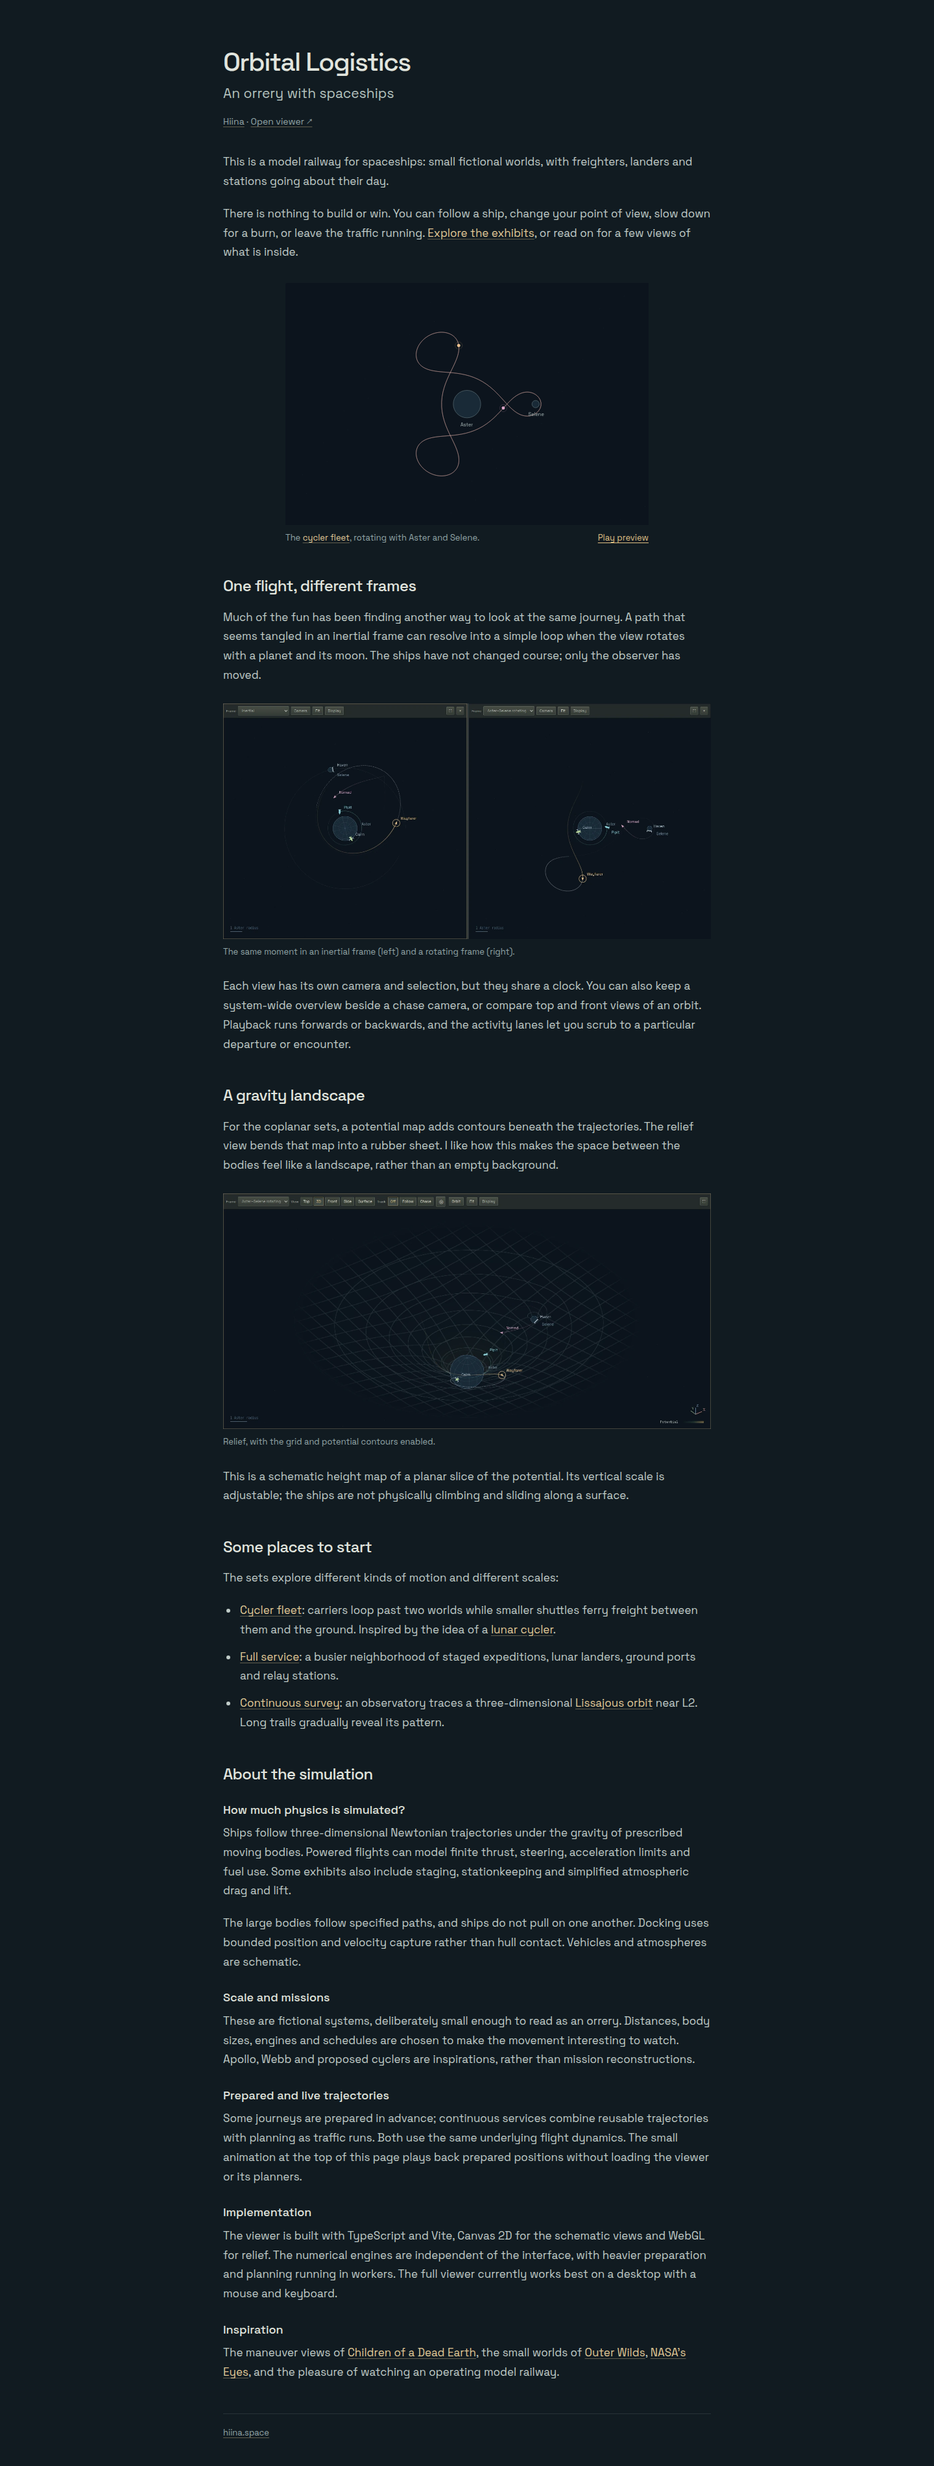
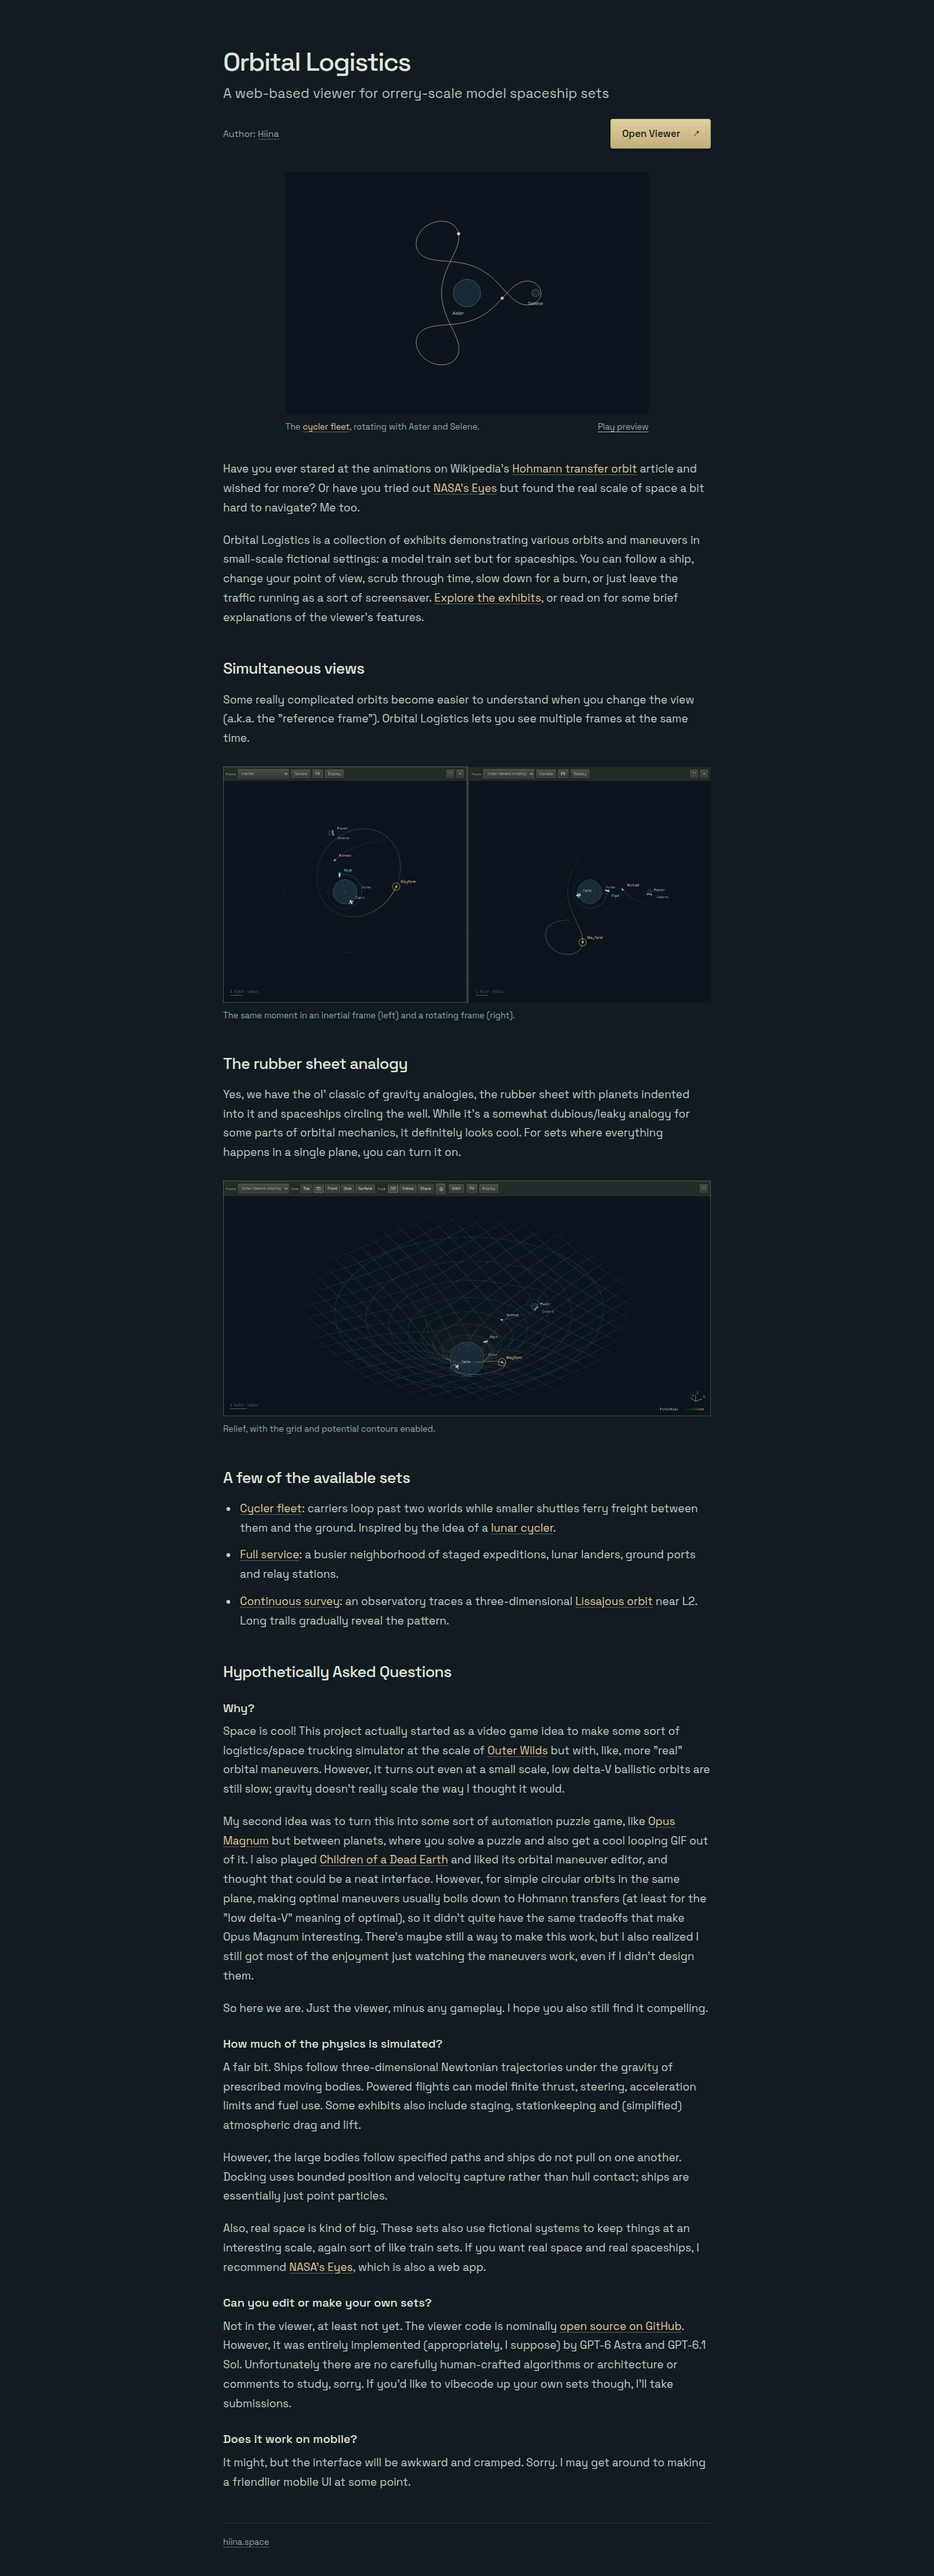
Proofread owner landing copy and emphasize the viewer entry
Keep the owner's conversational article, correct spelling and grammar, qualify the Hohmann discussion and clarify in-viewer authoring. Give Open Viewer a prominent keyboard-accessible action style. Record production entry checks and updated desktop/narrow screenshots; flag private source visibility and missing licensing for the publishing pass.

Assisted-by: Codex:gpt-6.1-sol

diff --git a/index.html b/index.html
@@ -5,36 +5,31 @@
     <meta name="viewport" content="width=device-width, initial-scale=1.0" />
     <meta
       name="description"
-      content="An orrery with spaceships. Notes and scenes from a fictional orbital model railway."
+      content="An orrery-scale simulation of interplanetary space logistics, sort of like a model train set."
     />
     <meta name="theme-color" content="#111b21" />
     <link rel="icon" href="data:," />
-    <title>Orbital Logistics — an orrery with spaceships</title>
+    <title>Orbital Logistics</title>
     <link rel="stylesheet" href="/src/landing/style.css" />
   </head>
   <body>
-    <!-- Draft editorial copy for the layout; owner will rewrite before publishing. -->
     <a class="skip-link" href="#main">Skip to content</a>
     <main id="main" class="page-wrap">
       <article>
         <header class="article-header">
           <h1>Orbital Logistics</h1>
-          <p class="subtitle">An orrery with spaceships</p>
-          <p class="byline">
-            <a href="https://hiina.space/" rel="author">Hiina</a> ·
-            <a href="./viewer/">Open viewer ↗</a>
+          <p class="subtitle">
+            A web-based viewer for orrery-scale model spaceship sets
           </p>
+          <div class="article-meta">
+            <p class="byline">
+              Author: <a href="https://hiina.space/" rel="author">Hiina</a>
+            </p>
+            <a class="viewer-action" href="./viewer/"
+              >Open Viewer <span aria-hidden="true">↗</span></a
+            >
+          </div>
         </header>
-        <p>
-          This is a model railway for spaceships: small fictional worlds, with
-          freighters, landers and stations going about their day.
-        </p>
-        <p>
-          There is nothing to build or win. You can follow a ship, change your
-          point of view, slow down for a burn, or leave the traffic running.
-          <a href="./viewer/">Explore the exhibits</a>, or read on for a few
-          views of what is inside.
-        </p>
         <figure id="preview" class="preview-figure">
           <div class="preview-image">
             <img
@@ -58,13 +53,30 @@
             </button>
           </figcaption>
         </figure>
+        <p>
+          Have you ever stared at the animations on Wikipedia's
+          <a href="https://en.wikipedia.org/wiki/Hohmann_transfer_orbit"
+            >Hohmann transfer orbit</a
+          >
+          article and wished for more? Or have you tried out
+          <a href="https://science.nasa.gov/eyes/">NASA’s Eyes</a>
+          but found the real scale of space a bit hard to navigate? Me too.
+        </p>
+        <p>
+          Orbital Logistics is a collection of exhibits demonstrating various
+          orbits and maneuvers in small-scale fictional settings: a model train
+          set but for spaceships. You can follow a ship, change your point of
+          view, scrub through time, slow down for a burn, or just leave the
+          traffic running as a sort of screensaver.
+          <a href="./viewer/">Explore the exhibits</a>, or read on for some
+          brief explanations of the viewer's features.
+        </p>
         <section aria-labelledby="frames-heading">
-          <h2 id="frames-heading">One flight, different frames</h2>
+          <h2 id="frames-heading">Simultaneous views</h2>
           <p>
-            Much of the fun has been finding another way to look at the same
-            journey. A path that seems tangled in an inertial frame can resolve
-            into a simple loop when the view rotates with a planet and its moon.
-            The ships have not changed course; only the observer has moved.
+            Some really complicated orbits become easier to understand when you
+            change the view (a.k.a. the "reference frame"). Orbital Logistics
+            lets you see multiple frames at the same time.
           </p>
           <figure>
             <a
@@ -85,21 +97,15 @@
               (right).
             </figcaption>
           </figure>
-          <p>
-            Each view has its own camera and selection, but they share a clock.
-            You can also keep a system-wide overview beside a chase camera, or
-            compare top and front views of an orbit. Playback runs forwards or
-            backwards, and the activity lanes let you scrub to a particular
-            departure or encounter.
-          </p>
         </section>
         <section aria-labelledby="landscape-heading">
-          <h2 id="landscape-heading">A gravity landscape</h2>
+          <h2 id="landscape-heading">The rubber sheet analogy</h2>
           <p>
-            For the coplanar sets, a potential map adds contours beneath the
-            trajectories. The relief view bends that map into a rubber sheet. I
-            like how this makes the space between the bodies feel like a
-            landscape, rather than an empty background.
+            Yes, we have the ol' classic of gravity analogies, the rubber sheet
+            with planets indented into it and spaceships circling the well.
+            While it's a somewhat dubious/leaky analogy for some parts of
+            orbital mechanics, it definitely looks cool. For sets where
+            everything happens in a single plane, you can turn it on.
           </p>
           <figure>
             <a
@@ -119,17 +125,9 @@
               Relief, with the grid and potential contours enabled.
             </figcaption>
           </figure>
-          <p>
-            This is a schematic height map of a planar slice of the potential.
-            Its vertical scale is adjustable; the ships are not physically
-            climbing and sliding along a surface.
-          </p>
         </section>
         <section id="exhibits" aria-labelledby="exhibits-heading">
-          <h2 id="exhibits-heading">Some places to start</h2>
-          <p>
-            The sets explore different kinds of motion and different scales:
-          </p>
+          <h2 id="exhibits-heading">A few of the available sets</h2>
           <ul>
             <li>
               <a href="./viewer/#set=aster-selene-cycler-fleet-service"
@@ -151,59 +149,82 @@
               <a href="https://en.wikipedia.org/wiki/Lissajous_orbit"
                 >Lissajous orbit</a
               >
-              near L2. Long trails gradually reveal its pattern.
+              near L2. Long trails gradually reveal the pattern.
             </li>
           </ul>
         </section>
         <section id="about" aria-labelledby="about-heading">
-          <h2 id="about-heading">About the simulation</h2>
-          <h3>How much physics is simulated?</h3>
+          <h2 id="about-heading">Hypothetically Asked Questions</h2>
+          <h3>Why?</h3>
           <p>
-            Ships follow three-dimensional Newtonian trajectories under the
-            gravity of prescribed moving bodies. Powered flights can model
-            finite thrust, steering, acceleration limits and fuel use. Some
-            exhibits also include staging, stationkeeping and simplified
-            atmospheric drag and lift.
+            Space is cool! This project actually started as a video game idea to
+            make some sort of logistics/space trucking simulator at the scale of
+            <a href="https://www.mobiusdigitalgames.com/outer-wilds.html"
+              >Outer Wilds</a
+            >
+            but with, like, more "real" orbital maneuvers. However, it turns out
+            even at a small scale, low delta-V ballistic orbits are still slow;
+            gravity doesn't really scale the way I thought it would.
           </p>
           <p>
-            The large bodies follow specified paths, and ships do not pull on
-            one another. Docking uses bounded position and velocity capture
-            rather than hull contact. Vehicles and atmospheres are schematic.
-          </p>
-          <h3>Scale and missions</h3>
-          <p>
-            These are fictional systems, deliberately small enough to read as an
-            orrery. Distances, body sizes, engines and schedules are chosen to
-            make the movement interesting to watch. Apollo, Webb and proposed
-            cyclers are inspirations, rather than mission reconstructions.
-          </p>
-          <h3>Prepared and live trajectories</h3>
-          <p>
-            Some journeys are prepared in advance; continuous services combine
-            reusable trajectories with planning as traffic runs. Both use the
-            same underlying flight dynamics. The small animation at the top of
-            this page plays back prepared positions without loading the viewer
-            or its planners.
-          </p>
-          <h3>Implementation</h3>
-          <p>
-            The viewer is built with TypeScript and Vite, Canvas 2D for the
-            schematic views and WebGL for relief. The numerical engines are
-            independent of the interface, with heavier preparation and planning
-            running in workers. The full viewer currently works best on a
-            desktop with a mouse and keyboard.
-          </p>
-          <h3>Inspiration</h3>
-          <p>
-            The maneuver views of
+            My second idea was to turn this into some sort of automation puzzle
+            game, like
+            <a href="https://www.zachtronics.com/opus-magnum/">Opus Magnum</a>
+            but between planets, where you solve a puzzle and also get a cool
+            looping GIF out of it. I also played
             <a
               href="https://store.steampowered.com/app/476530/Children_of_a_Dead_Earth/"
               >Children of a Dead Earth</a
-            >, the small worlds of
-            <a href="https://www.mobiusdigitalgames.com/outer-wilds.html"
-              >Outer Wilds</a
-            >, <a href="https://eyes.nasa.gov/">NASA’s Eyes</a>, and the
-            pleasure of watching an operating model railway.
+            >
+            and liked its orbital maneuver editor, and thought that could be a
+            neat interface. However, for simple circular orbits in the same
+            plane, making optimal maneuvers usually boils down to Hohmann
+            transfers (at least for the "low delta-V" meaning of optimal), so it
+            didn't quite have the same tradeoffs that make Opus Magnum
+            interesting. There's maybe still a way to make this work, but I also
+            realized I still got most of the enjoyment just watching the
+            maneuvers work, even if I didn't design them.
+          </p>
+          <p>
+            So here we are. Just the viewer, minus any gameplay. I hope you also
+            still find it compelling.
+          </p>
+          <h3>How much of the physics is simulated?</h3>
+          <p>
+            A fair bit. Ships follow three-dimensional Newtonian trajectories
+            under the gravity of prescribed moving bodies. Powered flights can
+            model finite thrust, steering, acceleration limits and fuel use.
+            Some exhibits also include staging, stationkeeping and (simplified)
+            atmospheric drag and lift.
+          </p>
+          <p>
+            However, the large bodies follow specified paths and ships do not
+            pull on one another. Docking uses bounded position and velocity
+            capture rather than hull contact; ships are essentially just point
+            particles.
+          </p>
+          <p>
+            Also, real space is kind of big. These sets also use fictional
+            systems to keep things at an interesting scale, again sort of like
+            train sets. If you want real space and real spaceships, I recommend
+            <a href="https://eyes.nasa.gov/">NASA’s Eyes</a>, which is also a
+            web app.
+          </p>
+          <h3>Can you edit or make your own sets?</h3>
+          <p>
+            Not in the viewer, at least not yet. The viewer code is nominally
+            <a href="https://github.com/hiinaspace/orbital-logistics"
+              >open source on GitHub</a
+            >. However, it was entirely implemented (appropriately, I suppose)
+            by GPT-6 Astra and GPT-6.1 Sol. Unfortunately there are no carefully
+            human-crafted algorithms or architecture or comments to study,
+            sorry. If you'd like to vibecode up your own sets though, I'll take
+            submissions.
+          </p>
+          <h3>Does it work on mobile?</h3>
+          <p>
+            It might, but the interface will be awkward and cramped. Sorry. I
+            may get around to making a friendlier mobile UI at some point.
           </p>
         </section>
       </article>

diff --git a/src/landing/style.css b/src/landing/style.css
@@ -67,9 +67,42 @@ h1 {
 .byline {
   font-size: 14px;
   color: var(--muted);
+  margin: 0;
 }
 .byline a {
   color: inherit;
+}
+.article-meta {
+  display: flex;
+  flex-wrap: wrap;
+  align-items: center;
+  justify-content: space-between;
+  gap: 16px;
+  margin-top: 20px;
+}
+.viewer-action {
+  display: inline-flex;
+  align-items: center;
+  gap: 20px;
+  padding: 9px 17px;
+  border: 1px solid #a99b72;
+  border-radius: 3px;
+  background: linear-gradient(#dfce9e, #c2af7b);
+  box-shadow:
+    inset 0 1px #fff5,
+    0 2px 3px #0003;
+  color: #172320;
+  font-size: 15px;
+  font-weight: 500;
+  text-decoration: none;
+}
+.viewer-action:hover {
+  background: #e7d6a8;
+  color: #101c19;
+}
+.viewer-action:active {
+  background: #c2af7b;
+  box-shadow: inset 0 1px 2px #0003;
 }
 p {
   margin: 0 0 20px;

diff --git a/docs/design/landing/README.md b/docs/design/landing/README.md
@@ -5,8 +5,10 @@ paired-frame and relief screenshots, exhibit links, and open simulation notes.
 There are no feature cards, promotional navigation bars or FAQ accordions. The
 single reading column is752px wide at desktop sizes; the animation is capped
 at560px. Space Grotesk and the viewer's palette keep the two pages related without
-copying the workspace's panel controls. Copy in `index.html` remains a draft for
-the owner to rewrite before publication.
+copying the workspace's panel controls. The owner rewrote `index.html` on October14;
+a proofreading pass corrected spelling/grammar and narrowed the Hohmann claim.
+The header now pairs the author credit with a prominent native Open Viewer link,
+styled as a raised gold action. The article otherwise retains the owner's register.
 
 The article is readable without JavaScript. Both viewer screenshots are lazy
 static WebP images with reserved dimensions, alt text and full-resolution links.
@@ -53,7 +55,8 @@ change layout height. Resizing does not restart simulation because there is none
   animation pause/offscreen behavior, no-JS/reduced-motion at360px, lazy image
   loading, viewer navigation/back/forward, native camera radios and static hosting
   under `/collection/`.
-- A1440px desktop article visit, followed by scrolling both figures into view,
+- Before the owner rewrite, a1440px desktop article visit followed by scrolling
+  both figures into view,
   fetched21,321decoded bytes of JavaScript,2,522bytes CSS,12,210bytes SVG,
   23,060bytes local font and62,110bytes WebP. Including HTML, the complete article
   is approximately131KB decoded. These are local resource measurements, not
@@ -63,15 +66,21 @@ change layout height. Resizing does not restart simulation because there is none
 - Desktop and360px browser screenshots were inspected; neither has horizontal
   overflow. No real-phone, deployed-domain, certificate or Cloudflare header
   result is claimed.
+- After proofreading and the action-button change, the build and all five
+  production entry cases passed again. Desktop1440px and narrow360px checks
+  found no overflow; keyboard Enter on Open Viewer entered `/viewer/`. Screenshots
+  below reflect the owner copy and button.
+- The linked GitHub repository is currently private with no license; public source
+  availability/licensing remains an owner decision before publication.
 - The previous scaffold's21-case workspace/entry validation remains historical;
   this revision changes only the article, its illustrations and entry assertions.
 
 The read-only [Pages investigation](../../deployment/cloudflare-pages.md) records
 publishing prerequisites. No production changes were authorized or performed.
 
-![Draft desktop article](desktop.png)
+![Desktop article](desktop.png)
 
-![Draft narrow article](mobile.png)
+![Narrow article](mobile.png)
 
 ## Viewer controls from the initial entry slice
 

diff --git a/docs/plan.md b/docs/plan.md
@@ -10,8 +10,9 @@ Astra disposition, numerical/browser/lifecycle checks and desktop performance.
 The October14 static article and small prepared animation are implemented as a
 separate Vite multi-page entry (`/`, with the workspace at `/viewer/`). It uses a
 linear article with a small inline animation, paired-frame
-and relief screenshots, and open simulation notes. The draft copy awaits owner
-editing; Cloudflare publishing remains unexecuted. See
+and relief screenshots, and open simulation notes. The owner copy rewrite and
+proofreading pass are complete, with a prominent viewer action. Public source
+visibility/licensing and Cloudflare publishing remain pending. See
 [entry evidence](design/landing/README.md) and [deployment plan](deployment/cloudflare-pages.md).
 Real-device mobile viewer work remains a later slice.
 The older milestone inventory below records the project's historical progression.

diff --git a/docs/model-set.md b/docs/model-set.md
@@ -14,9 +14,9 @@ October14 public-entry scaffold: `/` is a separate, readable landing page with
 an optional small prepared cycler preview; `/viewer/` owns the full workspace.
 The landing imports no viewer, simulation workers or heavy exhibit assets. See
 [entry/loading evidence](design/landing/README.md) and the read-only
-[Cloudflare Pages plan](deployment/cloudflare-pages.md). Article/simulation-notes
-copy is a draft for the owner to rewrite before publishing; no production deployment
-is live.
+[Cloudflare Pages plan](deployment/cloudflare-pages.md). The owner has rewritten
+the article; proofreading and the viewer action button are complete. Public source
+visibility/licensing and production deployment remain pending.
 
 The October13 viewer polish implements a docked11-set library, independent paired
 views and one shared timeline player. `viewer/session.ts` owns the only clock,
